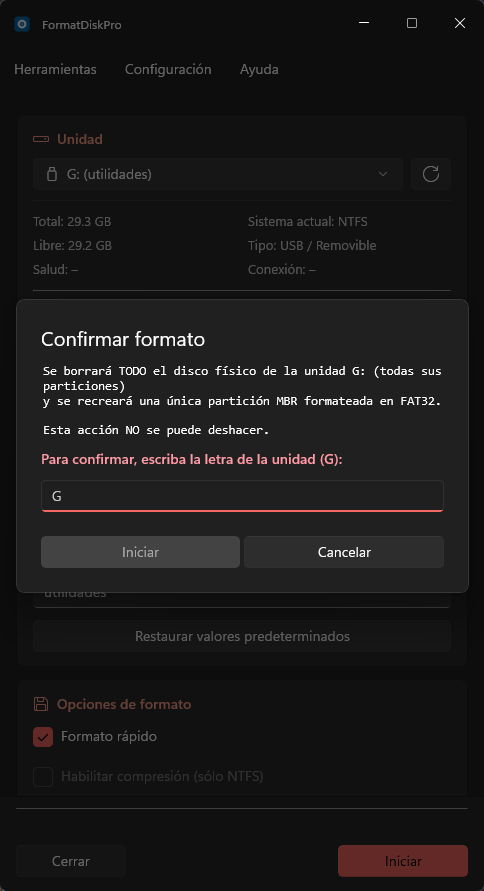
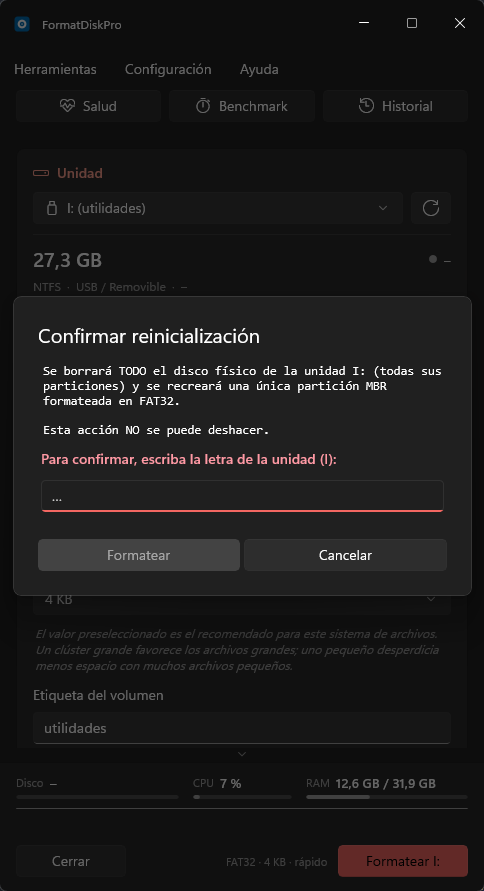
docs: las 12 capturas al día y la suite de UI en verde con la USB
Con la unidad extraíble conectada se cierran las dos cosas que faltaban:

- reinit-light/dark regeneradas — esa toma exige una unidad EXTRAÍBLE y no
  había ninguna cuando se rehizo el resto. La galería del README queda
  completa: 12/12, todas de la ventana actual.

- Tests de UI contra el .exe real, que es la verificación que ninguna prueba
  unitaria podía dar para un tier de UI: 34 pasan / 3 se omiten / 0 fallan en
  1 m 57 s, con FORMATDISKPRO_VERIFY_DRIVE=G y --filter "Category!=Slow". Las
  3 omitidas son opt-in (ALLOW_YANK x2, ALLOW_DESTRUCTIVE), no falta de
  hardware. Cubre los Tiers 11 y 12 enteros: barra de acciones rápidas,
  cabecera de unidad, franja de rendimiento, pie con «Formatear I:», selector
  de presets y galón de scroll — ninguna reestructuración rompió un
  AutomationId.

diff --git a/CONTEXT.md b/CONTEXT.md
@@ -156,12 +156,12 @@ WinUI, el `x:Name` del XAML se expone como tal sin configuración extra).
 |---|---|
 | Build | 0 advertencias / 0 errores |
 | Unitarias | **667 / 667** (666 pasan · 1 se omite) (433 + 20 del arreglo de *FAT32 pequeña* + 40 `T5-01` + 16 `T5-02` + 12 `T5-03` + 5 de la barra de ocupación + 1 de `T6-01` + 9 de `T6-03` + 11 de `T6-04` + 11 de `T6-05` + 3 de `T6-06` + 1 de `T6-09` + 9 de `T6-13` + 3 de `T6-15` + 7 de `T6-12` + 3 de `T7-01`/`T7-03`/`T7-05` + 6 de `T7-08` + 2 de `T7-09` + 7 de `T8-02` + 1 de `T8-03` + 3 de `T8-05` + 16 del Tier 9: 4 de los quick wins (`T9-07`, `T9-10`, `T9-11`, `T9-12`) y 12 del resto (`T9-08`, `T9-09`, `T9-13`, `T9-18`, `T9-19`) + 41 de `T11-01` + 3 de `T12-01`) · se ejecutan **en local**, nunca en CI (ver §4) |
-| UI tests | **38** en total (+1 de `T6-01`, +1 de `T6-02`, +1 de `T7-04`, +1 de `T7-02`, +5 de `T7-06`/`T7-07`, +1 de `T8-01`, −2 las dos sondas borradas) · con la USB (`utilidades`) y `--filter "Category!=Slow"`: **26 pasan / 3 se omiten / 0 fallan** en **1 m 47 s** (2026-08-17, antes del Tier 7) · las 3 omitidas son de opt-in (2 `ALLOW_YANK` + 1 `ALLOW_DESTRUCTIVE`), no falta de hardware · **sin** la USB: 19 pasan / 10 se omiten (con alguna unidad no-sistema conectada; el 2026-08-26, sin ninguna y ya con el Tier 7 y el Tier 8, fueron **27 pasan / 11 se omiten / 0 fallan** en 16 s — los cuatro `[NonSystemDriveFact]` de `FormatOptionsUiTests` también se omiten) · el corte usa ese mismo filtro y **dice qué dejó fuera** |
+| UI tests | **2026-09-01, con la USB (`utilidades`) y `FORMATDISKPRO_VERIFY_DRIVE=G`: 34 pasan / 3 se omiten / 0 fallan** en 1 m 57 s — la pasada que cubre los Tiers 11 y 12 (barra de acciones, cabecera de unidad, franja de rendimiento, pie con «Formatear I:», presets y galón de scroll). Las 3 omitidas son opt-in (`ALLOW_YANK` ×2, `ALLOW_DESTRUCTIVE`). Historial: **38** en total (+1 de `T6-01`, +1 de `T6-02`, +1 de `T7-04`, +1 de `T7-02`, +5 de `T7-06`/`T7-07`, +1 de `T8-01`, −2 las dos sondas borradas) · con la USB (`utilidades`) y `--filter "Category!=Slow"`: **26 pasan / 3 se omiten / 0 fallan** en **1 m 47 s** (2026-08-17, antes del Tier 7) · las 3 omitidas son de opt-in (2 `ALLOW_YANK` + 1 `ALLOW_DESTRUCTIVE`), no falta de hardware · **sin** la USB: 19 pasan / 10 se omiten (con alguna unidad no-sistema conectada; el 2026-08-26, sin ninguna y ya con el Tier 7 y el Tier 8, fueron **27 pasan / 11 se omiten / 0 fallan** en 16 s — los cuatro `[NonSystemDriveFact]` de `FormatOptionsUiTests` también se omiten) · el corte usa ese mismo filtro y **dice qué dejó fuera** |
 | Instalador | Verificado por SHA-256 (hash emparejado con su instalador) y probado **end-to-end** (limpia + in-place) |
 | Publicado | **v1.25.0** (2026-08-26) · `master` **con trabajo sin publicar**: los Tiers 11 y 12 enteros (`T11-01`–`T11-04` y `T12-01`–`T12-04`, 2026-09-01) están en `[No publicado]` del [`CHANGELOG.md`](CHANGELOG.md) |
 | Auditoría | 2026-08-13 — **CERRADA el 2026-08-16**: 39/40 completadas + 2 descartadas (`T2-10` CI, `T4-03` firma) · **0 abiertas** ([`ROADMAP.md`](ROADMAP.md) Parte 2) |
 | Ocurrencias | **Tier 5 CERRADO (2026-08-16)**: `T5-01`, `T5-02`, `T5-03` y `T5-05` completadas · `T5-04` (N particiones) **descartada** por decisión de producto — el motor admite N, lo limitado es la interfaz |
-| Tiers abiertos | **Tier 12 — Lo que la ventana no dice**, abierto y **cerrado el 2026-09-01, 6/6**, de una revisión de UI/UX. Su primer hallazgo **no es una preferencia**: `TextFillColorTertiaryBrush` da **3,29:1** en tema claro —por debajo del 4,5:1 de WCAG AA— y pintaba 18 controles de la ventana principal, y el barrido de contraste no podía verlo porque solo medía los colores propios. Los otros cinco: el botón primario nombra la unidad («Formatear H:»), el pie resume lo que se aplicará, los presets bajan a la tarjeta que configuran, la **barra de progreso deja de usar el acento del sistema** —en un equipo con acento rojo el éxito y el fallo eran el mismo color— y la barra de desplazamiento aparece cuando hay algo que desplazar · **Tier 11 — Rendimiento y jerarquía de la ventana principal**, abierto y **cerrado el 2026-09-01, 4/4**. No sale de un fallo sino de una petición de producto sobre la ventana principal, y las tres tareas atacan la misma raíz —**qué se ve y con qué peso**—: `T11-01` (el pie enseña disco, CPU y RAM mientras corre la operación), `T11-02` (salud, benchmark e historial salen del menú a una barra de acciones), `T11-03` (la tarjeta de unidad se ordena por importancia) y `T11-04` (ese panel deja de ser un desplegable: compactado a tres columnas cabe en una línea, y con eso desapareció el motivo de poder plegarlo). **Pendiente: regenerar la galería** con `tools/capture-screenshots.ps1` — las capturas del README son de la ventana anterior. Ver [`ROADMAP.md`](ROADMAP.md#-tier-11--rendimiento-y-jerarquía-de-la-ventana-principal-abierto-2026-09-01) |
+| Tiers abiertos | **Tier 12 — Lo que la ventana no dice**, abierto y **cerrado el 2026-09-01, 6/6**, de una revisión de UI/UX. Su primer hallazgo **no es una preferencia**: `TextFillColorTertiaryBrush` da **3,29:1** en tema claro —por debajo del 4,5:1 de WCAG AA— y pintaba 18 controles de la ventana principal, y el barrido de contraste no podía verlo porque solo medía los colores propios. Los otros cinco: el botón primario nombra la unidad («Formatear H:»), el pie resume lo que se aplicará, los presets bajan a la tarjeta que configuran, la **barra de progreso deja de usar el acento del sistema** —en un equipo con acento rojo el éxito y el fallo eran el mismo color— y la barra de desplazamiento aparece cuando hay algo que desplazar · **Tier 11 — Rendimiento y jerarquía de la ventana principal**, abierto y **cerrado el 2026-09-01, 4/4**. No sale de un fallo sino de una petición de producto sobre la ventana principal, y las tres tareas atacan la misma raíz —**qué se ve y con qué peso**—: `T11-01` (el pie enseña disco, CPU y RAM mientras corre la operación), `T11-02` (salud, benchmark e historial salen del menú a una barra de acciones), `T11-03` (la tarjeta de unidad se ordena por importancia) y `T11-04` (ese panel deja de ser un desplegable: compactado a tres columnas cabe en una línea, y con eso desapareció el motivo de poder plegarlo). La **galería está regenerada** (2026-09-01): las 12 capturas del README rehechas con la app real, y fue justo eso lo que destapó que el arreglo de `T12-06` no hacía nada. Ver [`ROADMAP.md`](ROADMAP.md#-tier-11--rendimiento-y-jerarquía-de-la-ventana-principal-abierto-2026-09-01) |
 | Tareas abiertas | **Una, y bloqueada a propósito: `T10-02`** ([Tier 10](ROADMAP.md#-tier-10--lo-que-solo-aparece-al-publicar-abierto-2026-08-26), abierto el **2026-08-26**). No sale de una revisión sino de **publicar**: al cortar la v1.25.0 la puerta de cobertura abortó el corte con el informe **vacío** y el arreglo de `T8-06` puesto, y **no se reprodujo en tres intentos**. `T10-01` (2026-08-27) hizo que la próxima vez queden pruebas y que el mensaje deje de culpar al paquete equivocado; `T10-02` es **la causa**, y espera a que vuelva a ocurrir. El **Tier 9** —re-auditoría transversal de las 12 áreas, ejecutada sobre la máquina— se abrió y se cerró el **2026-08-26**, **20/20**. De sus 20 tareas **ninguna era un fallo de las operaciones de disco**: la única **Alta** (`T9-01`) estaba en el corte de versión, que podía publicar un instalador sin correspondencia con el commit etiquetado, y las dos más reveladoras (`T9-04`/`T9-05`) estaban en la propia herramienta de auditoría, que perdía en silencio 4 de sus 26 capturas —incluida la del diálogo destructivo—. Ver [`ROADMAP.md`](ROADMAP.md#-tier-9--re-auditoría-transversal-con-la-app-en-marcha-abierto-2026-08-26) |
 | Tiers cerrados | El **Tier 8** cerró el **2026-08-26**, 6/6: salió de una captura del historial en uso —cuatro `EXPORT ERROR:` sin nada detrás— y encontró que ***Exportar CSV* nunca funcionó en ninguna versión publicada** (`T8-01`), que los errores podían salir vacíos (`T8-02`) y que otros dos botones podían no hacer nada (`T8-03`). El **Tier 7** cerró el mismo día, 9/9: `T7-08` era la comprobación a ojo que FlaUI no podía medir, y dio **no** —WinUI no pinta el tooltip de un control deshabilitado—, así que el motivo de `T7-02` bajó al texto visible del ítem — y mirar ese menú arreglado abrió `T7-09`, el marco de foco recortado en los seis diálogos. Antes, la revisión con la app en marcha (`T7-06`) desmintió la sospecha de partida —los `ListView` sí se recorren con teclado— y abrió `T7-07`. El **Tier 6** cerró el 2026-08-17, 15/15. Producto, auditoría y Tier 5: cerrados |
 

diff --git a/ROADMAP.md b/ROADMAP.md
@@ -38,8 +38,10 @@
 > repartir seis datos con el mismo peso; y `T11-04`, ese panel de rendimiento deja de ser un desplegable
 > y pasa a una franja fija de tres columnas — al compactarlo desapareció el motivo de poder plegarlo.
 >
-> **Queda pendiente regenerar la galería** (`tools/capture-screenshots.ps1`): las capturas del README son
-> de la ventana anterior.
+> **Galería regenerada y suite de UI en verde** (2026-09-01, con la USB conectada): las **12** capturas
+> del README rehechas conduciendo la app real, y **34 pasan / 3 se omiten / 0 fallan** en 1 m 57 s. Las 3
+> omitidas son de opt-in (`ALLOW_YANK` ×2, `ALLOW_DESTRUCTIVE`), no falta de hardware. Regenerar la
+> galería es además lo que destapó que el arreglo de `T12-06` no hacía nada.
 >
 > **Queda una tarea abierta, y está bloqueada a propósito**: `T10-02`, en el
 > **[Tier 10](#-tier-10--lo-que-solo-aparece-al-publicar-abierto-2026-08-26)**. El tier se abrió el
